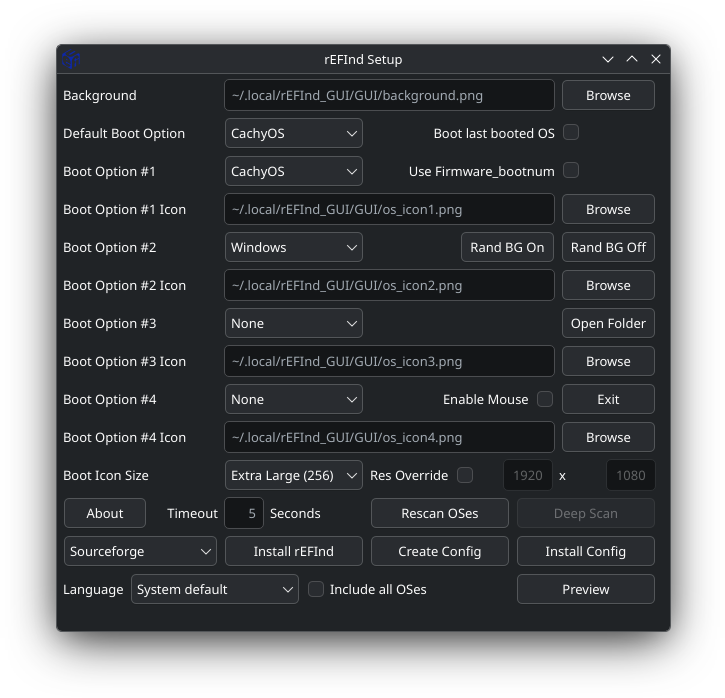
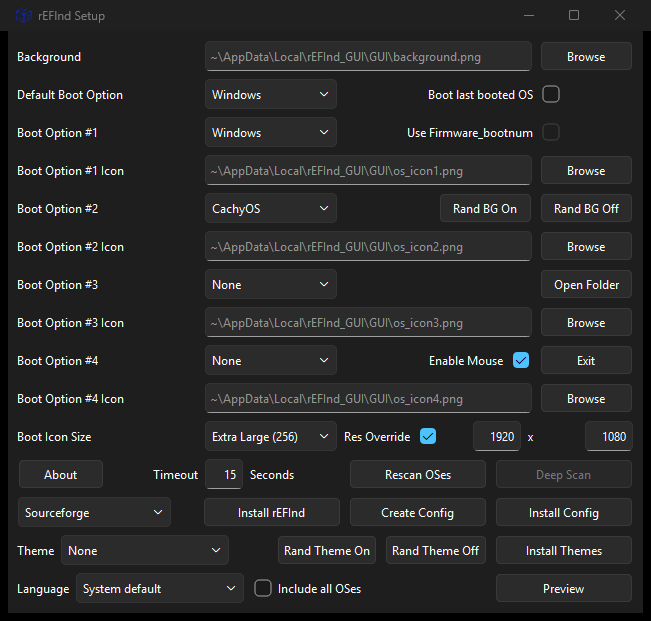
README: staged-file editing notes, theme collection source link, refreshed screenshot
- New "Hand-editing the staged files" section: the staged refind.conf,
  background/icon PNGs, backgrounds/ pool, and themes/ tree can all be
  edited by hand and are installed as-is by Install Config / Install Themes.
- Link the rEFInd Themes Collection gallery's GitHub source
  (martinmilani/rEFInd-theme-collection).
- Refresh the GUI screenshot with a v3.2.1 capture (Windows build) showing
  the new Theme controls.

Claude-Session: https://claude.ai/code/session_01BSsnfKtbwLRJikxjcfeDsm

diff --git a/README.md b/README.md
@@ -61,6 +61,15 @@ Windows notes:
 
 The GUI scans **every reachable EFI System Partition** at startup (and via the **Rescan OSes** button) to detect what is actually installed: Windows, SteamOS, and any Linux distro with a vendor directory under `EFI/` (shim, GRUB, or systemd-boot). The Boot Option boxes are populated with the detected OSes, and the generated `refind.conf` uses the real loader paths and volumes found on disk — multi-ESP machines (e.g. Windows and Linux each with their own ESP) are fully covered. Since 2.2.0 the Windows build also mounts and scans letterless Linux ESPs, so a distro like CachyOS booting via systemd-boot is detected from the Windows side and named after its boot entries rather than a generic "systemd-boot". **Install Config** and the background randomizer write to the ESP that the firmware's rEFInd boot entry actually points at, so a stale rEFInd copy on another ESP can't swallow your config.
 
+## Hand-editing the staged files
+
+Everything the GUI installs to the ESP is first staged as plain files in its data folder (`~/.local/rEFInd_GUI` on Linux, `%LOCALAPPDATA%\rEFInd_GUI` on Windows). Editing those files by hand is supported — the install buttons copy whatever is there:
+
+- `GUI/refind.conf` — generated by **Create Config**. You can tweak or extend it (extra stanzas, rEFInd options the GUI doesn't expose) before pressing **Install Config**, which installs it exactly as edited — along with `GUI/active_theme.conf` when a theme is selected. Pressing **Create Config** again regenerates the file, so keep a copy of manual edits you want to re-apply.
+- `GUI/background.png` and `GUI/os_icon1.png` … `os_icon4.png` — the staged copies of the selected background and icons. Replacing these files directly (PNG only) works just as well as browsing from the GUI; **Install Config** installs whatever is staged.
+- `backgrounds/` — the pool the background randomizer draws from on each boot; add or remove PNGs as you like.
+- `themes/<name>/` — the tree **Install Themes** copies to the ESP (every folder containing a `theme.conf` counts). You can edit a bundled theme — swap its icons, tweak its `theme.conf` — or drop in a new one, then press **Install Themes** again to install it as-is.
+
 ## Themes
 
 The GUI can dress the rEFInd boot menu in a complete community theme — background, icon set, selection highlights, and fonts — instead of (or on top of) the plain generated config:
@@ -68,7 +77,7 @@ The GUI can dress the rEFInd boot menu in a complete community theme — backgro
 - **Choosing a theme**: pick one from the **Theme** box (next to the Preview button). `None` keeps the plain generated config, `Random` picks one of the bundled themes each time **Create Config** is pressed. When a theme is active, the generated `refind.conf` ends with a stable include line (`include themes/active_theme.conf`), and `active_theme.conf` — a copy of the chosen theme's `theme.conf` — is staged next to it. Switching themes only ever replaces that one file; the include line never changes. Theme settings intentionally supersede the generated settings above them (that is how rEFInd themes are designed to work).
 - **Install Themes** copies the theme files themselves (`themes/` in the GUI data folder) to `EFI/refind/themes/` on the EFI System Partition. Run it once (and again after adding your own themes); **Install Config** then activates whichever theme was selected at Create Config time.
 - **Rand Theme On/Off** toggles a per-boot theme randomizer (systemd service on Linux, Scheduled Task at logon on Windows) that swaps `themes/active_theme.conf` on the ESP for a random installed theme — the theme counterpart of the background randomizer. It only has a visible effect while the installed `refind.conf` carries the theme include line (i.e. it was created with a theme selected).
-- **Adding your own themes**: drop any rEFInd theme into `themes/<name>/` in the GUI data folder (`~/.local/rEFInd_GUI` on Linux, `%LOCALAPPDATA%\rEFInd_GUI` on Windows) so that `themes/<name>/theme.conf` exists, with the folder named exactly as the paths inside its `theme.conf` expect. It will appear in the Theme box on the next launch. Good starting points: the [rEFInd Themes Collection](https://refind-themes-collection.netlify.app/) gallery and the [official rEFInd theming documentation](https://www.rodsbooks.com/refind/themes.html).
+- **Adding your own themes**: drop any rEFInd theme into `themes/<name>/` in the GUI data folder (`~/.local/rEFInd_GUI` on Linux, `%LOCALAPPDATA%\rEFInd_GUI` on Windows) so that `themes/<name>/theme.conf` exists, with the folder named exactly as the paths inside its `theme.conf` expect. It will appear in the Theme box on the next launch. Good starting points: the [rEFInd Themes Collection](https://refind-themes-collection.netlify.app/) gallery ([GitHub: martinmilani/rEFInd-theme-collection](https://github.com/martinmilani/rEFInd-theme-collection)) and the [official rEFInd theming documentation](https://www.rodsbooks.com/refind/themes.html).
 
 ### Bundled themes and credits
 
